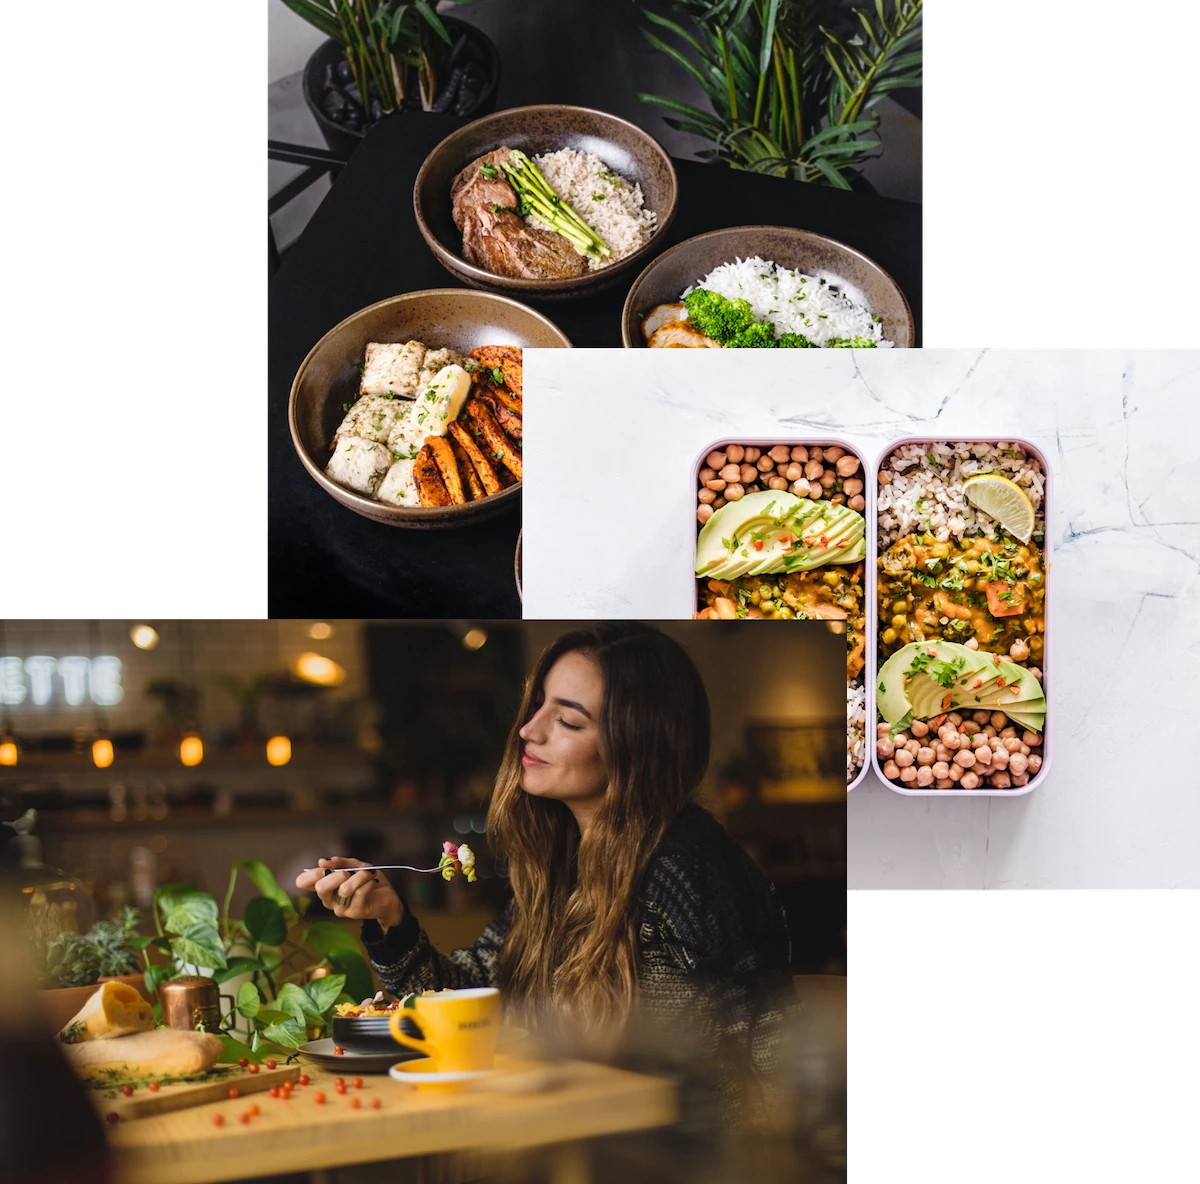
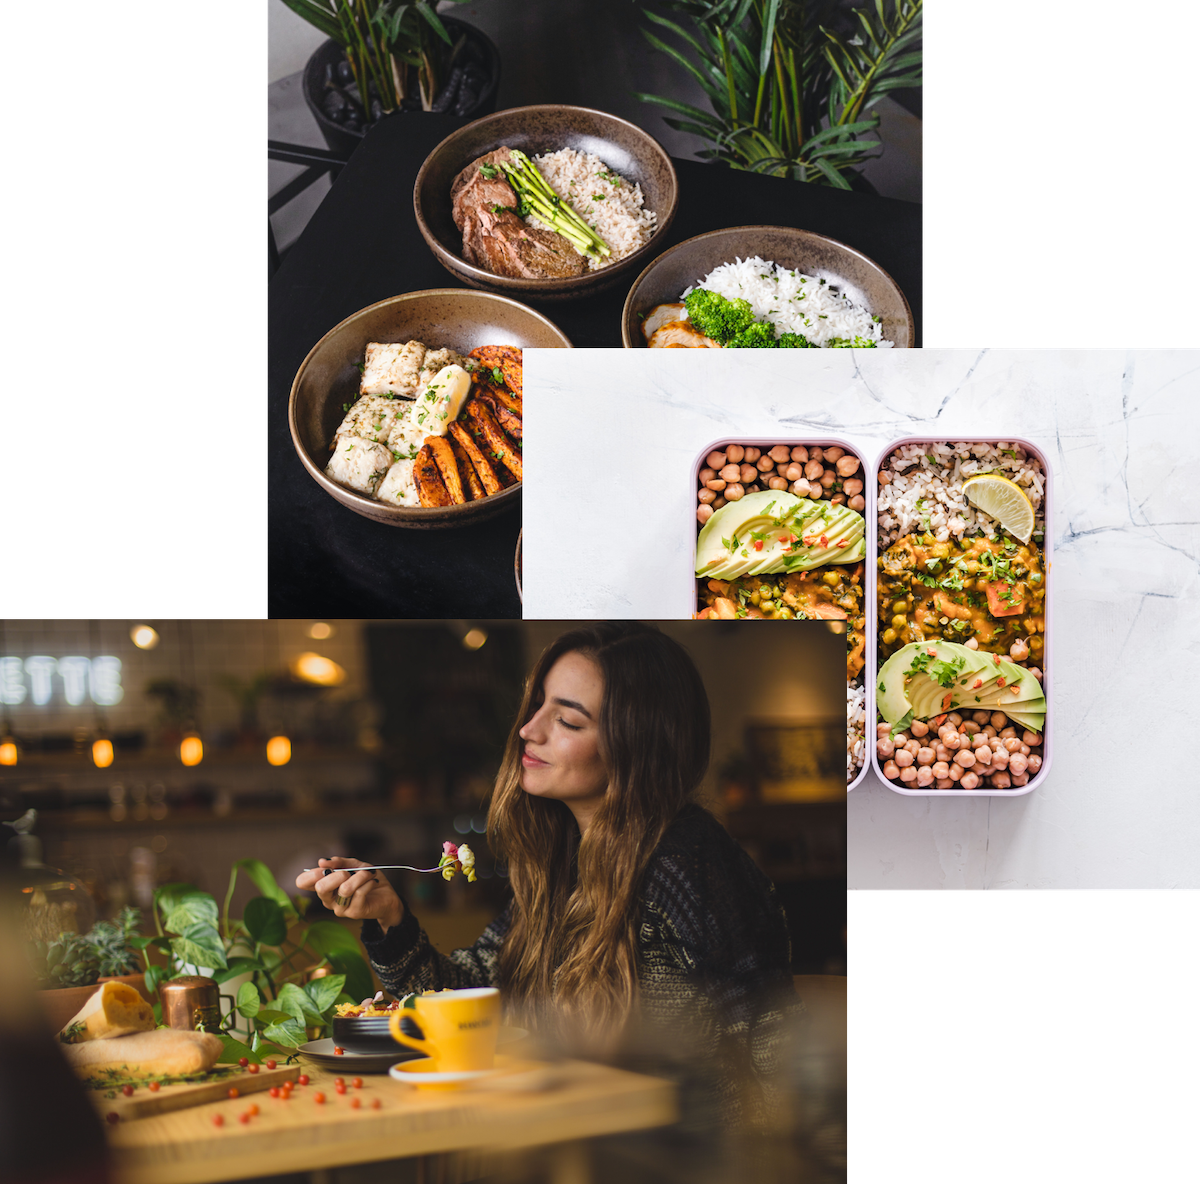
Add files via upload

Changed region(s): [[0.7708, 0.4688, 0.8325, 0.5], [0.6475, 0.5, 0.6783, 0.5312], [0.4317, 0.125, 0.4625, 0.1562]]

diff --git a/index.html b/index.html
@@ -107,11 +107,11 @@
           </div>
 
           <div class="step-img-box zoom-img">
-            <img src="img/app/app-screen-1.png" class="step-img" alt="iPhone app preferences selection screen"/>
+            <img src="img/app/app-screen-1.webp" class="step-img" alt="iPhone app preferences selection screen"/>
           </div>
 
           <div class="step-img-box zoom-img">
-            <img src="img/app/app-screen-2.png" class="step-img" alt="iPhone app meal approving plan screen"/>
+            <img src="img/app/app-screen-2.webp" class="step-img" alt="iPhone app meal approving plan screen"/>
           </div>
           <div class="step-text-box">
             <p class="step-number ">02</p>
@@ -129,7 +129,7 @@
             </p>
           </div>
           <div class="step-img-box zoom-img">
-            <img src="img/app/app-screen-3.png"class="step-img"alt="iPhone app delivery screen"/>
+            <img src="img/app/app-screen-3.webp"class="step-img" alt="iPhone app delivery screen"/>
           </div>
         </div>
       </section>
@@ -348,7 +348,7 @@
             <img src="img/gallery/gallery-3.jpg" alt="Photo of beautifully arranged food"/>
           </figure>
           <figure class="gallery-item">
-            <img src="img/gallery/gallery-4.jpg" alt="Photo of beautifully arranged food"/>
+            <img src="img/gallery/gallery-4.webp" alt="Photo of beautifully arranged food"/>
           </figure>
           <figure class="gallery-item">
             <img src="img/gallery/gallery-5.jpg" alt="Photo of beautifully arranged food"/>
